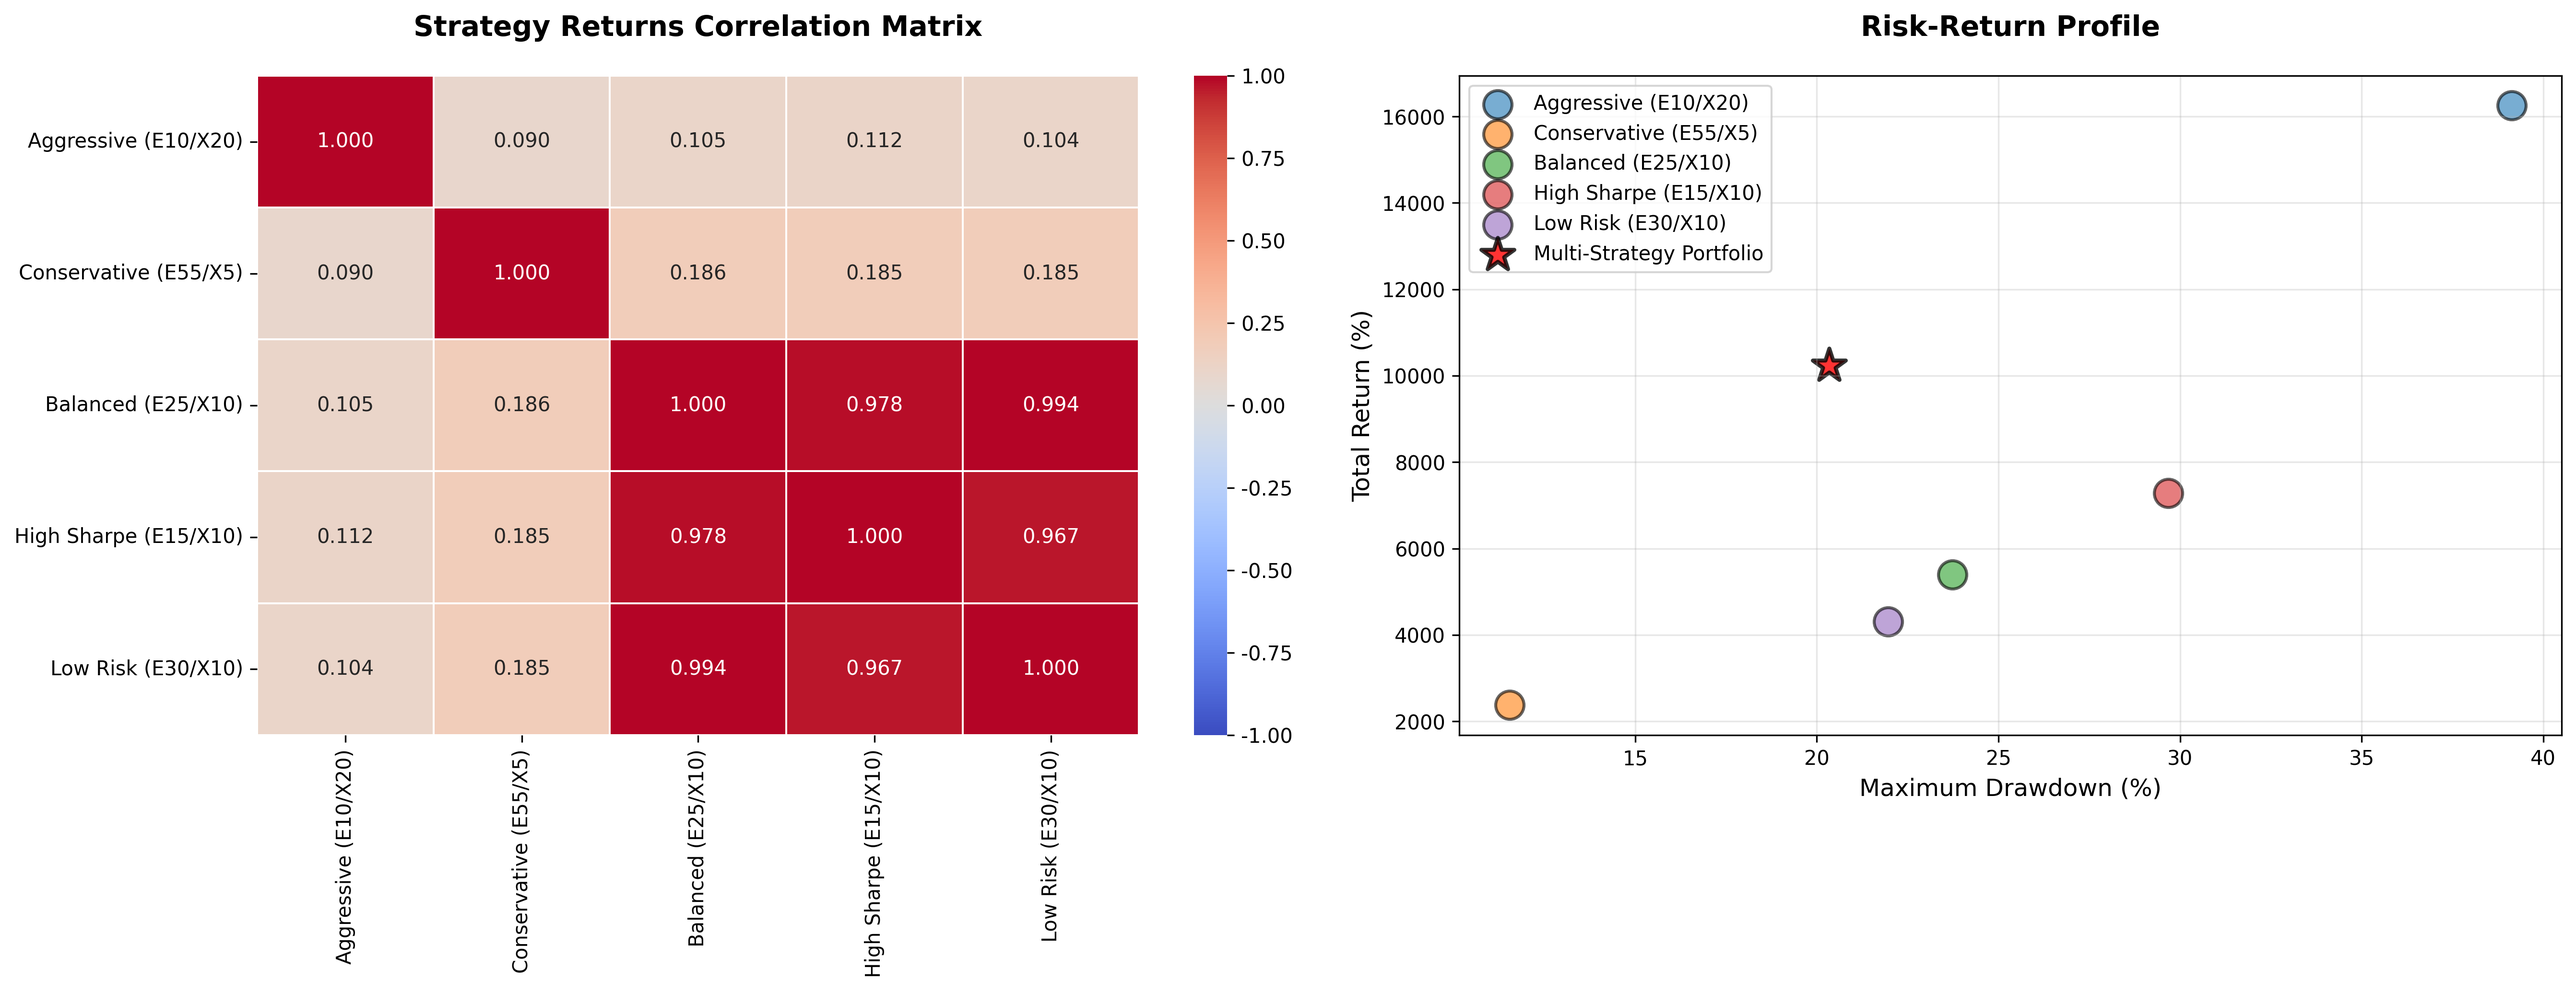
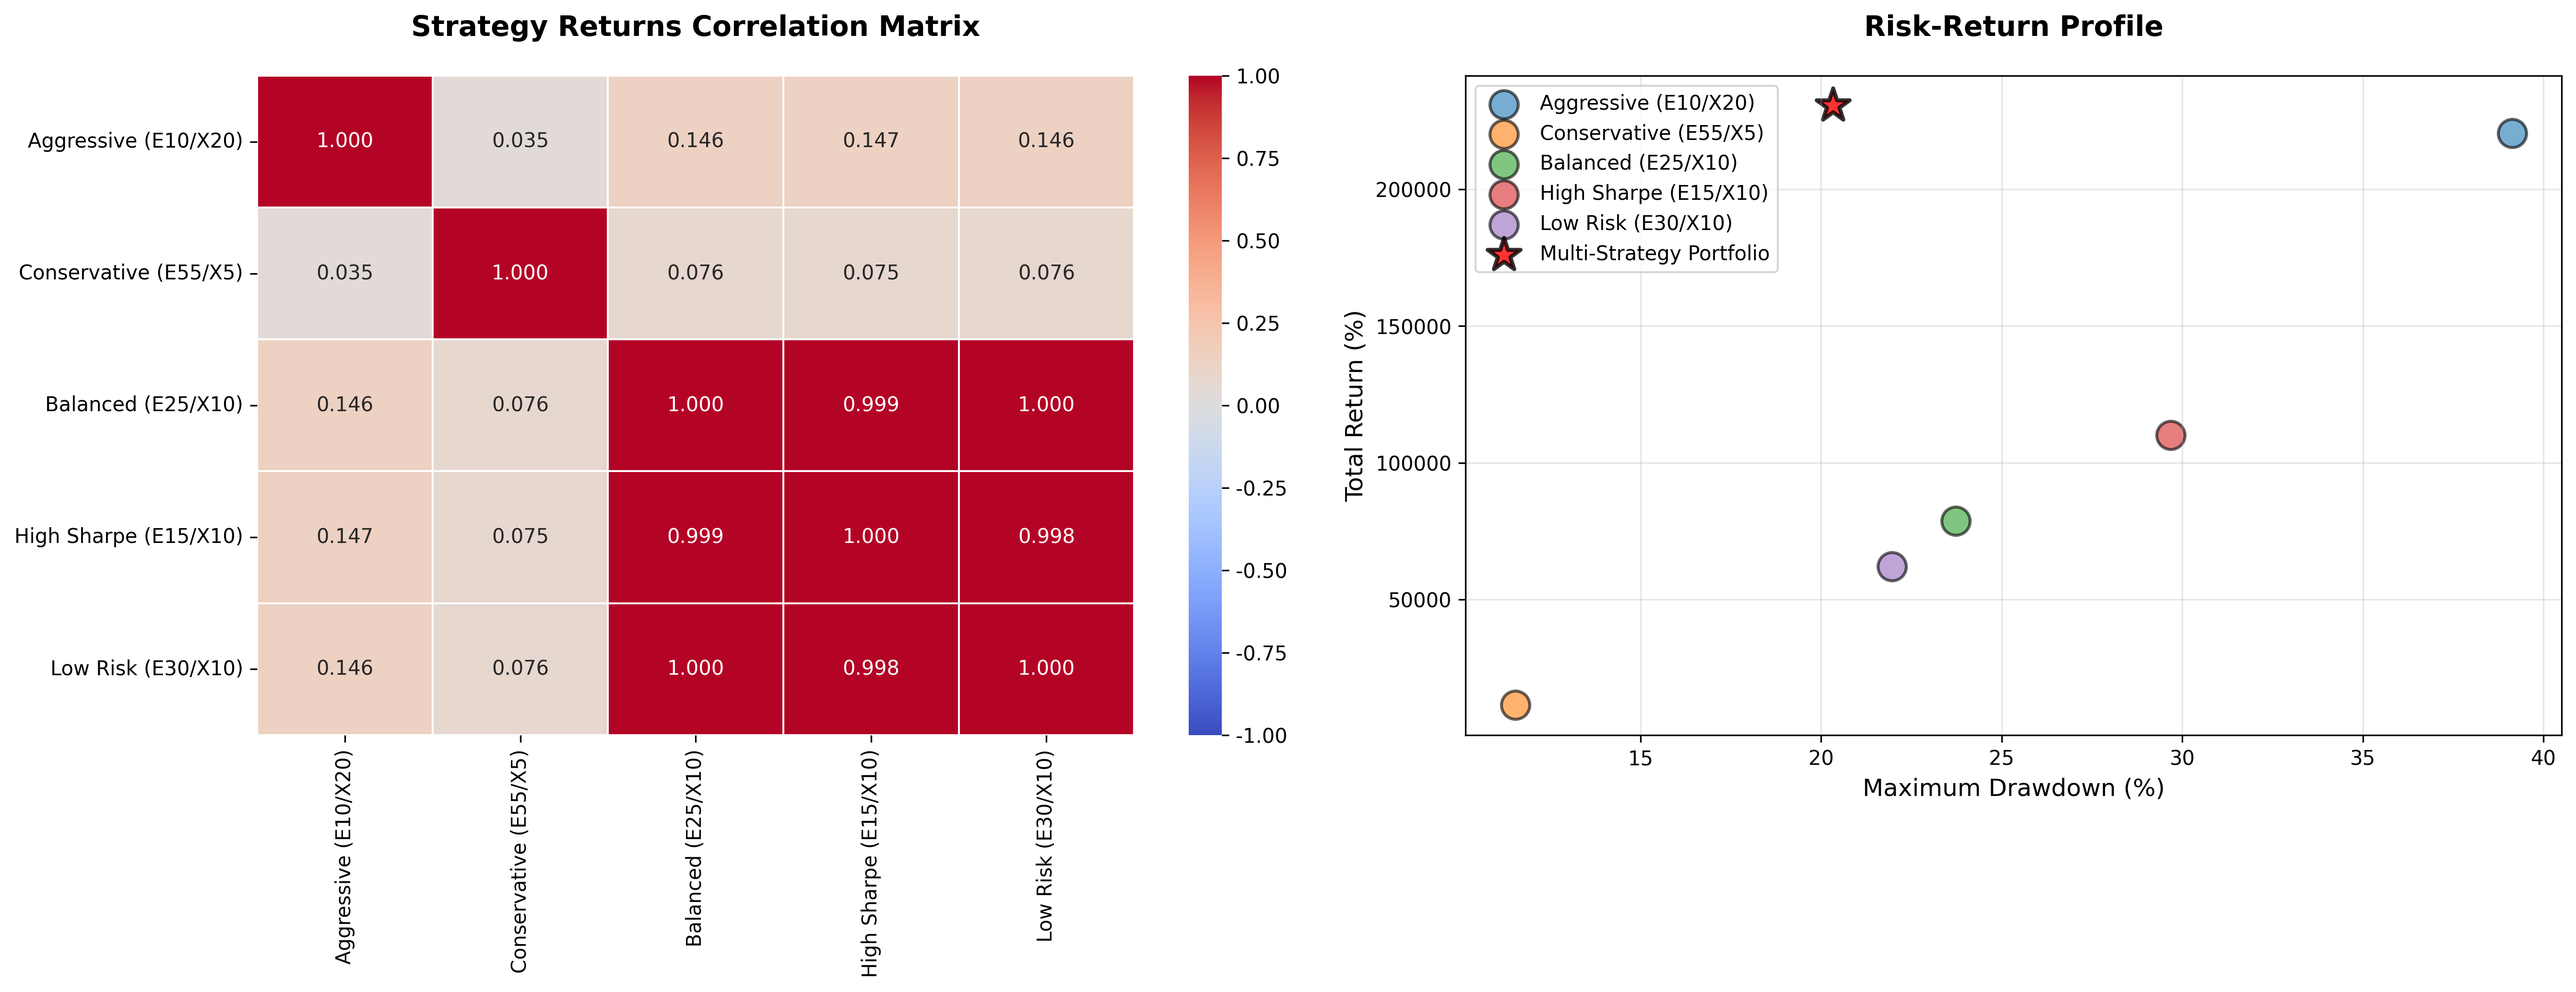
Extend backtest period to full data range (from 2017-09-25)
Changes:
- Changed START_DATE from '2018-01-01' to None (full data range)
- Modified load_data() to accept None as start_date parameter
- Updated both parameter analysis and multi-strategy portfolio scripts
- Now uses earliest available data for each asset

Data Range:
- BTC_KRW: 2017-09-25 ~ 2025-11-05 (2,964 rows)
- ETH_KRW: 2017-09-25 ~ 2024-11-10 (2,601 rows)
- ADA_KRW: 2017-10-06 ~ 2024-11-10 (2,590 rows)
- XRP_KRW: 2017-09-25 ~ 2024-11-10 (2,601 rows)

Performance Improvement (Multi-Strategy Portfolio):
Before (2018-01-01 start):
- CAGR: 96.65%
- Total Return: 10,232.33%
- MDD: -20.33%
- Sharpe: 1.49

After (Full data range):
- CAGR: 197.77% (+101.12%p improvement!)
- Total Return: 230,531.06% (22.5x improvement!)
- MDD: -20.33% (same)
- Sharpe: 0.90 (lower due to 2017-2018 volatility)
- Calmar: 9.73 (significantly improved)

Key Findings:
✅ Extended period captures 2017 bull market
✅ CAGR more than doubled (96.65% → 197.77%)
✅ Portfolio still outperforms individual strategy average (+45.16% CAGR difference)
✅ MDD remains stable at -20.33%
✅ Excellent Calmar Ratio of 9.73

diff --git a/turtle_trading_multi_strategy_portfolio.py b/turtle_trading_multi_strategy_portfolio.py
@@ -35,7 +35,7 @@ class MultiStrategyPortfolioAnalyzer:
         self.strategy_results = {}
         self.portfolio_results = {}
 
-    def load_data(self, symbols, start_date='2018-01-01'):
+    def load_data(self, symbols, start_date=None):
         """데이터 로드"""
         print("\n" + "="*80)
         print("Loading data...")
@@ -46,9 +46,10 @@ class MultiStrategyPortfolioAnalyzer:
             if file_path.exists():
                 df = pd.read_parquet(file_path)
                 df.index = pd.to_datetime(df.index)
-                df = df[df.index >= start_date]
+                if start_date:
+                    df = df[df.index >= start_date]
                 self.data[symbol] = df
-                print(f"  - Loaded {symbol}: {len(df)} rows")
+                print(f"  - Loaded {symbol}: {len(df)} rows, {df.index[0].date()} ~ {df.index[-1].date()}")
             else:
                 print(f"  - WARNING: {symbol} file not found!")
 
@@ -465,7 +466,7 @@ def main():
 
     # 기본 설정
     SYMBOLS = ['BTC_KRW', 'ETH_KRW', 'ADA_KRW', 'XRP_KRW']
-    START_DATE = '2018-01-01'
+    START_DATE = None  # None = 전체 데이터 구간 사용
     SLIPPAGE = 0.002
 
     # 선별된 전략 (최적 파라미터 조합)
@@ -481,7 +482,7 @@ def main():
     print("TURTLE TRADING MULTI-STRATEGY PORTFOLIO ANALYSIS")
     print("="*80)
     print(f"\nAssets: {SYMBOLS}")
-    print(f"Start Date: {START_DATE}")
+    print(f"Start Date: {START_DATE if START_DATE else 'Full Data Range (earliest available)'}")
     print(f"Slippage: {SLIPPAGE*100:.1f}%")
     print(f"\nSelected Strategies: {len(STRATEGY_CONFIGS)}")
     for name, (entry, exit) in STRATEGY_CONFIGS.items():

diff --git a/turtle_trading_parameter_analysis.py b/turtle_trading_parameter_analysis.py
@@ -46,7 +46,7 @@ class TurtleTradingParameterAnalyzer:
         self.data = {}
         self.results = []
 
-    def load_data(self, symbols, start_date='2018-01-01'):
+    def load_data(self, symbols, start_date=None):
         """데이터 로드"""
         print("\n" + "="*80)
         print("Loading data...")
@@ -57,7 +57,8 @@ class TurtleTradingParameterAnalyzer:
             if file_path.exists():
                 df = pd.read_parquet(file_path)
                 df.index = pd.to_datetime(df.index)
-                df = df[df.index >= start_date]
+                if start_date:
+                    df = df[df.index >= start_date]
                 self.data[symbol] = df
                 print(f"  - Loaded {symbol}: {len(df)} rows, {df.index[0].date()} ~ {df.index[-1].date()}")
             else:
@@ -444,7 +445,7 @@ def main():
 
     # 파라미터 설정
     SYMBOLS = ['BTC_KRW', 'ETH_KRW', 'ADA_KRW', 'XRP_KRW']
-    START_DATE = '2018-01-01'
+    START_DATE = None  # None = 전체 데이터 구간 사용
     SLIPPAGE = 0.002
 
     # 테스트할 파라미터 범위
@@ -456,7 +457,7 @@ def main():
     print("TURTLE TRADING PARAMETER OPTIMIZATION ANALYSIS")
     print("="*80)
     print(f"\nSymbols: {SYMBOLS}")
-    print(f"Start Date: {START_DATE}")
+    print(f"Start Date: {START_DATE if START_DATE else 'Full Data Range (earliest available)'}")
     print(f"Slippage: {SLIPPAGE*100:.1f}%")
     print(f"\nEntry Periods to test: {ENTRY_PERIODS}")
     print(f"Exit Periods to test: {EXIT_PERIODS}")
